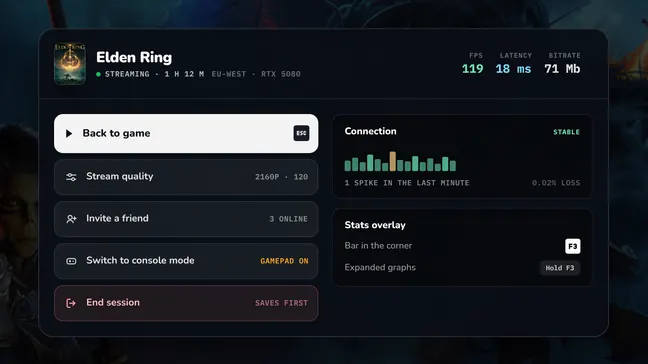
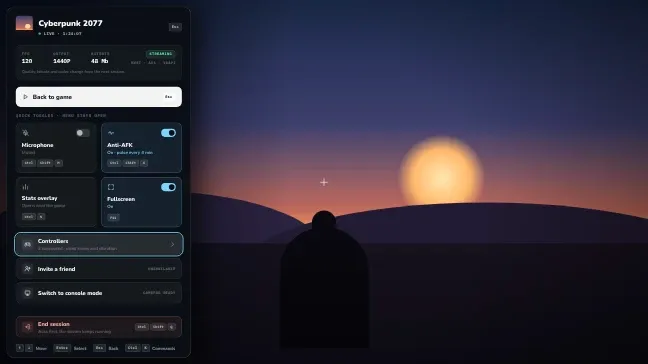
feat(home): refresh the in-stream menu card from the OpenNOW in-stream menu Paper file (#60)
* feat(home): refresh the in-stream menu card from the Paper design

* feat(home): drop the board leftovers from the in-stream menu export

The artboard also carried a thin outline circle and the stand the notes panel
sat on. Both are hidden for the export like the label and the notes panel, so
the card shows only the docked menu over the scene.

* docs(home): correct the in-stream menu alt text to match the export

---------

diff --git a/src/routes/index.tsx b/src/routes/index.tsx
@@ -345,7 +345,7 @@ function Home() {
           <AppWindow
             src="esc-menu"
             label="In the app · Desktop · In-stream menu (Esc)"
-            alt="The OpenNOW desktop in-stream menu over Elden Ring: live FPS, latency and bitrate, Back to game, Stream quality, Invite a friend, Switch to console mode and End session, next to a connection graph and the F3 stats overlay shortcuts."
+            alt="The OpenNOW desktop in-stream menu, a drawer docked on the left of the stream view: the game Cyberpunk 2077 with LIVE · 1:24:07 and an Esc hint, live FPS 120, output 1440p, bitrate 48 Mb and a Streaming pill reading NVST · AV1 · VAAPI, a note that quality, bitrate and codec change from the next session, Back to game, quick toggles for microphone, Anti-AFK, stats overlay and fullscreen with their shortcuts, then Controllers with its connected-pad note, Invite a friend marked unavailable, Switch to console mode marked gamepad ready, End session, and the key hints for move, select, back and commands."
           />
           <AppWindow
             src="console"
